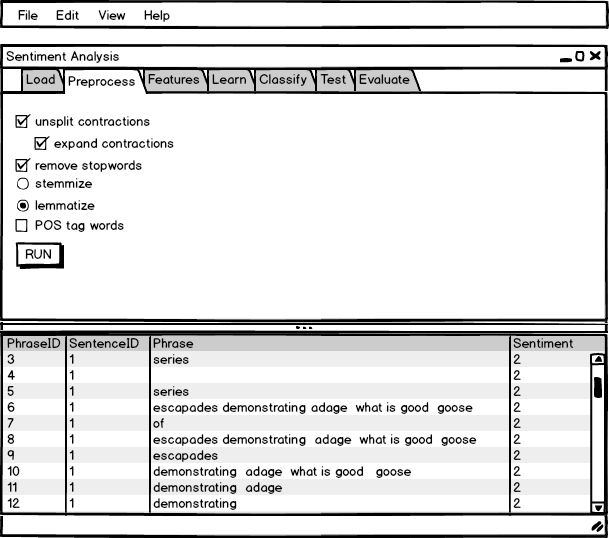
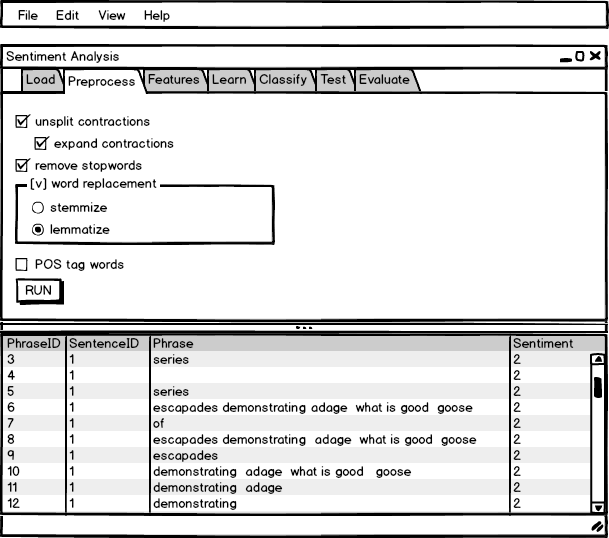
GUI

Changed region(s): [[0.0, 0.3271, 0.468, 0.5651]]

diff --git a/qtdesign/pfcsamr.qml b/qtdesign/pfcsamr.qml
@@ -112,15 +112,15 @@ ApplicationWindow {
                     title: "Load"
                     anchors.margins: 10
 
-                    GridLayout {
-                        columns: 1
-
+                    ColumnLayout {
                         RowLayout {
                             Button {
                                 text: "Select file"
                             }
-                            TextField {
-                                width: 100
+                            TextEdit {
+                                text: "No file selected"
+                                Layout.fillWidth: true
+                                readOnly: true
                             }
                         }
                         RowLayout {
@@ -132,7 +132,7 @@ ApplicationWindow {
                             SpinBox {
                                 enabled: loadOnlyFirst.checked
                                 minimumValue: 0
-                                maximumValue: 1000 //Actualizar por código
+                                maximumValue: 99999999 //Actualizar por código
                                 value: 1000 //Actualizar por código
                             }
                             Label {
@@ -154,36 +154,267 @@ ApplicationWindow {
                     id: preprocessTab
                     objectName: "preprocessTab"
                     title: "Preprocess"
+                    anchors.margins: 10
+                    ColumnLayout {
+                        CheckBox {
+                            id: unsplitContractions
+                            text: "unsplit contractions"
+                        }
+                        CheckBox {
+                            anchors.left: parent.left
+                            anchors.leftMargin: 10
+                            text: "expand contractions"
+                            enabled: unsplitContractions.checked
+                            onEnabledChanged: {
+                                if (!enabled) {
+                                    checked = false
+                                }
+                            }
+                        }
+                        CheckBox {
+                            text: "remove stopwords"
+                        }
+                        GroupBox {
+                            checkable: true
+                            title: "word replacement"
+                            checked: false
+                            ExclusiveGroup {
+                                id: stemmizeLemmatizeExclusiveGroup
+                            }
+                            ColumnLayout {
+                                RadioButton {
+                                    text: "stemmize"
+                                    exclusiveGroup: stemmizeLemmatizeExclusiveGroup
+                                }
+                                RadioButton {
+                                    text: "lemmatize"
+                                    exclusiveGroup: stemmizeLemmatizeExclusiveGroup
+                                    checked: true
+                                }
+                            }
+                        }
+                        CheckBox {
+                            text: "POS tag words"
+                        }
+                        Button {
+                            text: "RUN"
+                        }
+
+                        RowLayout {
+                            anchors.fill: parent
+                        }
+                    }
                 }
 
                 Tab {
                     id: featuresTab
                     objectName: "featuresTab"
                     title: "Features"
+                    anchors.margins: 10
+                    ColumnLayout {
+                        RowLayout {
+                            CheckBox {
+                                id: ngramsFrom
+                                text: "n-grams from"
+                            }
+                            SpinBox {
+                                minimumValue: 1
+                                maximumValue: 20
+                                enabled: ngramsFrom.checked
+                            }
+                            Label {
+                                text: "to"
+                            }
+                            SpinBox {
+                                minimumValue: 1
+                                maximumValue: 20
+                                value: 3
+                                enabled: ngramsFrom.checked
+                            }
+                        }
+                        RowLayout {
+                            anchors.left: parent.left
+                            anchors.leftMargin: 10
+                            Label {
+                                text: "with document frecuency contraints:"
+                            }
+                        }
+                        RowLayout {
+                            anchors.left: parent.left
+                            anchors.leftMargin: 20
+                            CheckBox {
+                                id: aMinimumDFOf
+                                text: "a minimum of"
+                                enabled: ngramsFrom.checked
+                            }
+                            SpinBox {
+                                minimumValue: 1
+                                maximumValue: 99999999
+                                enabled: aMinimumDFOf.checked
+                            }
+                            ComboBox {
+                                model: ["no. of documents", "% of documents"]
+                            }
+                        }
+                        RowLayout {
+                            anchors.left: parent.left
+                            anchors.leftMargin: 20
+                            CheckBox {
+                                id: aMaximumDFOf
+                                text: "a maximum of"
+                                enabled: ngramsFrom.checked
+                            }
+                            SpinBox {
+                                minimumValue: 1
+                                maximumValue: 99999999
+                                value: 100
+                                enabled: aMaximumDFOf.checked
+                            }
+                            ComboBox {
+                                currentIndex: 1
+                                model: ["no. of documents", "% of documents"]
+                            }
+                        }
+                        RowLayout {
+                            anchors.left: parent.left
+                            anchors.leftMargin: 10
+                            CheckBox {
+                                id: onlyMostSignificant
+                                text: "only most significant"
+                            }
+                            SpinBox {
+                                minimumValue: 1
+                                maximumValue: 1000
+                                value: 300
+                                enabled: onlyMostSignificant.checked
+                            }
+                            Label {
+                                text: "features"
+                            }
+                        }
+                        RowLayout {
+                            CheckBox {
+                                id: removeFeaturesWithLessThan
+                                text: "remove features with less than"
+                            }
+                            SpinBox {
+                                decimals: 2
+                                value: 0.10
+                                minimumValue: 0
+                                maximumValue: 99999999
+                                enabled: removeFeaturesWithLessThan.checked
+                            }
+                            Label {
+                                text: "variance"
+                            }
+                        }
+                        RowLayout {
+                            Button {
+                                text: "RUN"
+                            }
+                            Button {
+                                text: "Show selected features"
+                            }
+                        }
+
+                        RowLayout {
+                            anchors.fill: parent
+                        }
+                    }
                 }
 
                 Tab {
                     id: learnTab
                     objectName: "learnTab"
                     title: "Learn"
+                    anchors.margins: 10
+                    ColumnLayout {
+                        RowLayout {
+                            id: splitRandomlyRowLayout
+                            CheckBox {
+                                id: splitRandomly
+                                text: "split randomly"
+                            }
+                            SpinBox {
+                                minimumValue: 1
+                                maximumValue: 99
+                                suffix: " %"
+                                enabled: splitRandomly.checked
+                            }
+                            Label {
+                                text: "dataset for train and remaining for self-test"
+                            }
+                        }
+
+                        RowLayout {
+                            height: parent.height - splitRandomlyRowLayout.height - learnRUN.height
+                            TabView {
+                                anchors.fill: parent
+                                Layout.fillWidth: true
+                                Layout.fillHeight: true
+
+                                Tab {
+                                    title: "MultinomialNB"
+                                }
+                                Tab {
+                                    title: "GaussianNB"
+                                }
+                                Tab {
+                                    title: "LDA"
+                                }
+                                Tab {
+                                    title: "QDA"
+                                }
+                                Tab {
+                                    title: "LinearSVM"
+                                }
+                            }
+                        }
+
+                        Button {
+                            id: learnRUN
+                            text: "RUN"
+                        }
+                    }
                 }
 
                 Tab {
                     id: classifyTab
                     objectName: "classifyTab"
                     title: "Classify"
+                    anchors.margins: 10
+                    ColumnLayout {
+                        //Aqui van los demás
+                        RowLayout {
+                            anchors.fill: parent
+                        }
+                    }
                 }
 
                 Tab {
                     id: testTab
                     objectName: "testTab"
                     title: "Test"
+                    anchors.margins: 10
+                    ColumnLayout {
+                        //Aqui van los demás
+                        RowLayout {
+                            anchors.fill: parent
+                        }
+                    }
                 }
 
                 Tab {
                     id: evaluateTab
                     objectName: "evaluateTab"
                     title: "Evaluate"
+                    anchors.margins: 10
+                    ColumnLayout {
+                        //Aqui van los demás
+                        RowLayout {
+                            anchors.fill: parent
+                        }
+                    }
                 }
             }
         }
@@ -205,8 +436,5 @@ ApplicationWindow {
                 model: libraryModel
             }
         }
-    }
-
-    statusBar: StatusBar {
     }
 }
